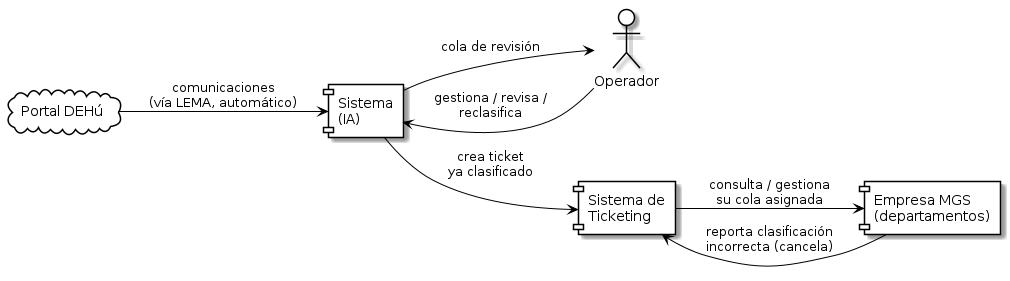
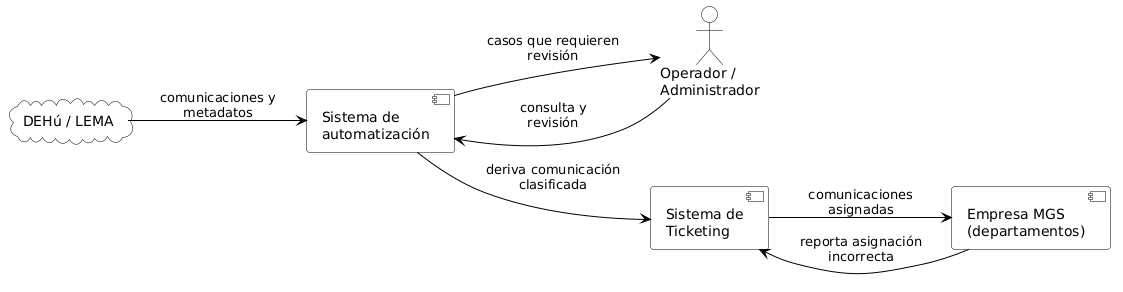
Memoria: 04 init

Changed region(s): [[0.0, 0.0285, 0.6752, 0.5979], [0.4297, 0.6263, 1.0, 0.968], [0.399, 0.5409, 0.5525, 0.6548]]

diff --git a/memoria/04_Especificacion_y_diseno.md b/memoria/04_Especificacion_y_diseno.md
@@ -1,0 +1,33 @@
+# Especificación y diseño de la solución
+
+Este capítulo presenta la especificación y el diseño de la solución propuesta para automatizar la recepción y el tratamiento de las comunicaciones procedentes de DEHú. En primer lugar, se delimitan los actores y componentes que participan en el sistema y se establecen sus requisitos funcionales y no funcionales. A continuación, se describen los casos de uso y los principales flujos de funcionamiento, para posteriormente presentar el modelo de datos y la arquitectura adoptada. Finalmente, se detallan las principales decisiones de diseño y se delimita el alcance de la solución.
+
+## Actores y componentes del sistema
+
+Antes de especificar los requisitos del sistema, es necesario delimitar su frontera e identificar tanto los actores externos que interactúan con él como los principales componentes que intervienen en su funcionamiento. Esta distinción permite separar las responsabilidades propias del sistema de aquellas correspondientes a servicios corporativos o externos.
+
+### Actores externos
+
+Se consideran actores aquellas entidades externas a la frontera del sistema que participan en alguno de sus procesos. Se han identificado tres actores principales:
+
+- **DEHú/LEMA.** Constituye la fuente externa de las notificaciones y comunicaciones electrónicas procedentes de las Administraciones Públicas. El sistema interactúa con LEMA mediante los servicios web disponibles para Grandes Destinatarios, que permiten localizar las comunicaciones y acceder posteriormente a su contenido y a la documentación asociada.
+
+- **Operador/Administrador.** Representa al personal interno que utiliza el frontal de la aplicación para consultar los registros almacenados y gestionar aquellos casos que requieren intervención humana. Se distinguen dos niveles de autorización. El Operador puede consultar los casos pendientes y aceptar una clasificación propuesta, mientras que el Administrador dispone, además, de permisos para corregir la asignación del departamento.
+
+- **Departamento.** Representa al área de negocio destinataria de una comunicación una vez clasificada y derivada. El Departamento no trabaja directamente sobre el frontal desarrollado en este proyecto, sino sobre el sistema corporativo de tickets. Si detecta que una comunicación ha sido asignada incorrectamente, esta situación puede iniciar el proceso de reclasificación previsto por el sistema.
+
+El certificado digital utilizado para la autenticación frente a LEMA no se considera un actor, ya que no interactúa con el sistema de forma autónoma, sino que constituye un mecanismo técnico de autenticación empleado en la integración con DEHú/LEMA.
+
+### Componentes principales
+
+Desde un punto de vista funcional, el sistema puede dividirse en cuatro bloques principales.
+
+El primero comprende la **recepción y el procesamiento de las comunicaciones**. Incluye la integración con DEHú/LEMA, la persistencia de los datos y documentos obtenidos y los mecanismos de inteligencia artificial utilizados para su clasificación e interpretación. La clasificación del departamento se realiza antes de acceder al contenido del documento, utilizando como criterios base determinados metadatos proporcionados por LEMA, principalmente el organismo emisor y el concepto. El diseño permite incorporar otros metadatos disponibles antes de la comparecencia si posteriormente se comprueba que aportan información útil para determinar el departamento destinatario.
+
+El segundo bloque comprende la **derivación del resultado**. Una vez que el sistema dispone de la información necesaria, se genera un evento que permite desacoplar el procesamiento de la comunicación de las acciones posteriores. El canal obligatorio en el MVP es el sistema corporativo de tickets, aunque la arquitectura contempla la posibilidad de incorporar otros canales, como el correo electrónico.
+
+El tercer bloque comprende la **gestión y revisión humana**. Mediante un frontal propio, el Operador puede consultar los registros almacenados y revisar aquellos casos cuya clasificación automática no alcanza el nivel de confianza requerido. Esta intervención permite mantener supervisión humana sobre aquellas decisiones que el sistema no puede resolver con suficiente fiabilidad.
+
+Finalmente, el sistema contempla un bloque de **reclasificación automática** para aquellos casos en los que un departamento detecta que una comunicación ya derivada ha sido asignada incorrectamente. En este proceso, un agente de inteligencia artificial intenta determinar una nueva clasificación y, si alcanza el nivel de confianza establecido, se procede a corregir la derivación. Si el sistema no puede resolver el caso con suficiente fiabilidad, este se deriva a revisión humana.
+
+Esta división describe las principales responsabilidades funcionales del sistema sin entrar todavía en su implementación concreta. La estructura interna de los componentes, sus dependencias y las decisiones arquitectónicas adoptadas se desarrollan posteriormente en el apartado dedicado a la arquitectura.

diff --git a/Diagramas/Diagrama_Contexto.md b/Diagramas/Diagrama_Contexto.md
@@ -60,57 +60,64 @@ end note
 
 ---
 
-## Situación futura (con Sistema + IA)
+## Situación objetivo
 
-![Diagrama de contexto - situación futura](img/diagrama_contexto.png)
+![Diagrama de contexto - situación objetivo](img/diagrama_contexto.png)
 
-El sistema se interpone entre DEHú y la Empresa MGS: consulta las comunicaciones automáticamente (vía LEMA), las clasifica y deriva a cada departamento solo lo que le corresponde, creando un ticket en el Sistema de Ticketing (canal principal, ver `Estado.md` sección 3). El Operador gestiona la cola de revisión humana para los casos de baja confianza.
+El sistema sustituye el acceso manual de los usuarios de MGS al portal de DEHú por una integración automatizada mediante LEMA. Las comunicaciones se reciben y clasifican antes de ser derivadas al departamento correspondiente a través del Sistema de Ticketing. Los casos que requieren intervención humana quedan disponibles para el Operador/Administrador mediante el sistema de automatización.
 
 ### Elementos
 
-- **DEHú**: fuente de las comunicaciones (sede web hoy; LEMA en la situación futura). Mi Carpeta Ciudadana no aparece: es otro portal.
-- **Sistema (IA)**: la plataforma de automatización objeto del TFM — ingesta, clasificación por metadatos de `localiza()` antes de abrir, y generación de tickets. El OCR interpreta el documento ya descargado y no decide el departamento.
-- **Sistema de Ticketing**: sistema interno ya existente en MGS (fuera del alcance del TFM) donde el Sistema (IA) crea el ticket derivado; es el canal por el que la Empresa MGS consulta y gestiona sus comunicaciones asignadas (ver `Diagrama_Componentes.md`).
-- **Empresa MGS**: los departamentos internos que reciben ya filtrada y clasificada solo la comunicación que les corresponde (a diferencia de la situación actual, ya no revisan el listado completo).
-- **Operador**: rol interno que gestiona la cola de revisión humana y la reclasificación manual (ver `Diagrama_Componentes.md`, bloque "Gestión y Revisión").
+- **DEHú / LEMA**: fuente externa de las notificaciones y comunicaciones electrónicas. En la situación objetivo, el acceso se realiza de forma automatizada mediante los servicios web de LEMA para Grandes Destinatarios.
+- **Sistema de automatización**: sistema objeto del TFM. Centraliza la recepción y el tratamiento de las comunicaciones, determina el departamento destinatario y coordina su posterior derivación.
+- **Sistema de Ticketing**: sistema corporativo ya existente en MGS y externo al sistema desarrollado. Constituye el canal principal mediante el que las comunicaciones clasificadas se derivan a los departamentos.
+- **Empresa MGS**: representa los departamentos internos destinatarios de las comunicaciones. A diferencia de la situación actual, dejan de revisar directamente el listado completo de DEHú y reciben a través de Ticketing las comunicaciones que les han sido asignadas.
+- **Operador/Administrador**: personal interno que utiliza el sistema para consultar los registros y gestionar los casos que requieren intervención humana.
 
 ```plantuml
-@startuml diagrama_contexto
+@startuml diagrama_contexto_objetivo
 
 skinparam backgroundColor White
 skinparam defaultFontName Helvetica
+skinparam shadowing false
+
 skinparam actor {
     BackgroundColor White
     BorderColor Black
 }
+
 skinparam component {
     BackgroundColor White
     BorderColor Black
     ArrowColor Black
     FontSize 14
 }
+
 skinparam cloud {
     BackgroundColor White
     BorderColor Black
 }
+
 skinparam nodesep 60
 skinparam ranksep 60
 
 left to right direction
 
-cloud "Portal DEHú" as Carpeta
-actor "Operador" as Operador
-component "Empresa MGS\n(departamentos)" as MGS
+cloud "DEHú / LEMA" as DEHu
+actor "Operador /\nAdministrador" as Operador
+component "Sistema de\nautomatización" as Sistema
 component "Sistema de\nTicketing" as Ticketing
+component "Empresa MGS\n(departamentos)" as MGS
 
-component "Sistema\n(IA)" as Sistema
+DEHu --> Sistema : comunicaciones y\nmetadatos
 
-Carpeta --> Sistema : comunicaciones\n(vía LEMA, automático)
-Sistema --> Ticketing : crea ticket\nya clasificado
-Ticketing --> MGS : consulta / gestiona\nsu cola asignada
-MGS --> Ticketing : reporta clasificación\nincorrecta (cancela)
-Operador --> Sistema : gestiona / revisa /\nreclasifica
-Sistema --> Operador : cola de revisión
+Operador --> Sistema : consulta y\nrevisión
+Sistema --> Operador : casos que requieren\nrevisión
+
+Sistema --> Ticketing : deriva comunicación\nclasificada
+
+Ticketing --> MGS : comunicaciones\nasignadas
+MGS --> Ticketing : reporta asignación\nincorrecta
 
 @enduml
 ```

diff --git a/memoria/01_Introduccion.md b/memoria/01_Introduccion.md
@@ -41,13 +41,17 @@ El objetivo general de este trabajo es diseñar e implementar un sistema que aut
 De este objetivo general se derivan los siguientes objetivos específicos:
 
 - Sustituir el acceso manual a DEHú mediante certificado digital por una integración automatizada con las APIs de LEMA, capaz de detectar y descargar por sí misma las comunicaciones y la documentación asociada.
-- Interpretar y clasificar automáticamente el contenido de cada comunicación mediante inteligencia artificial (OCR y modelos de lenguaje), identificando su naturaleza, el organismo emisor y el área de negocio a la que corresponde.
+- Clasificar automáticamente cada comunicación a partir de la información proporcionada por LEMA para determinar el área de negocio destinataria y, cuando resulte necesario, interpretar su contenido documental mediante técnicas de extracción de texto, OCR y modelos de lenguaje
 - Generar eventos dentro de la arquitectura orientada a eventos ya existente en la compañía, de modo que la clasificación de una comunicación quede desacoplada de la acción concreta que se ejecuta sobre ella.
 - Enrutar automáticamente cada comunicación clasificada hacia la cola de trabajo correspondiente del sistema de Ticketing interno —o, como canal alternativo, notificarla por correo electrónico—, evitando el traslado manual de información entre sistemas.
 - Ofrecer un mecanismo de revisión humana para los casos en los que la clasificación automática no alcance el nivel de confianza necesario, explorando además que un agente de inteligencia artificial, apoyado en el protocolo MCP, pueda corregir sus propios errores de clasificación sin depender de la disponibilidad de un operador.
 - Sentar una base escalable y reutilizable, alineada con las líneas de evolución tecnológica de la compañía descritas en la Motivación, que permita incorporar en el futuro nuevos organismos, tipos de comunicaciones y automatismos adicionales.
 
 Estos objetivos se persiguen dentro del alcance de un Producto Mínimo Viable (MVP) centrado en el ciclo de recepción de los envíos de DEHú; los límites concretos de dicho alcance se detallan en el apartado 4.8, *Alcance y límites del diseño*.
+
+![Diagrama de contexto — situación objetivo](../Diagramas/img/diagrama_contexto.png)
+
+**Figura 2.** Situación objetivo: gestión automatizada de comunicaciones.
 
 ---
 
